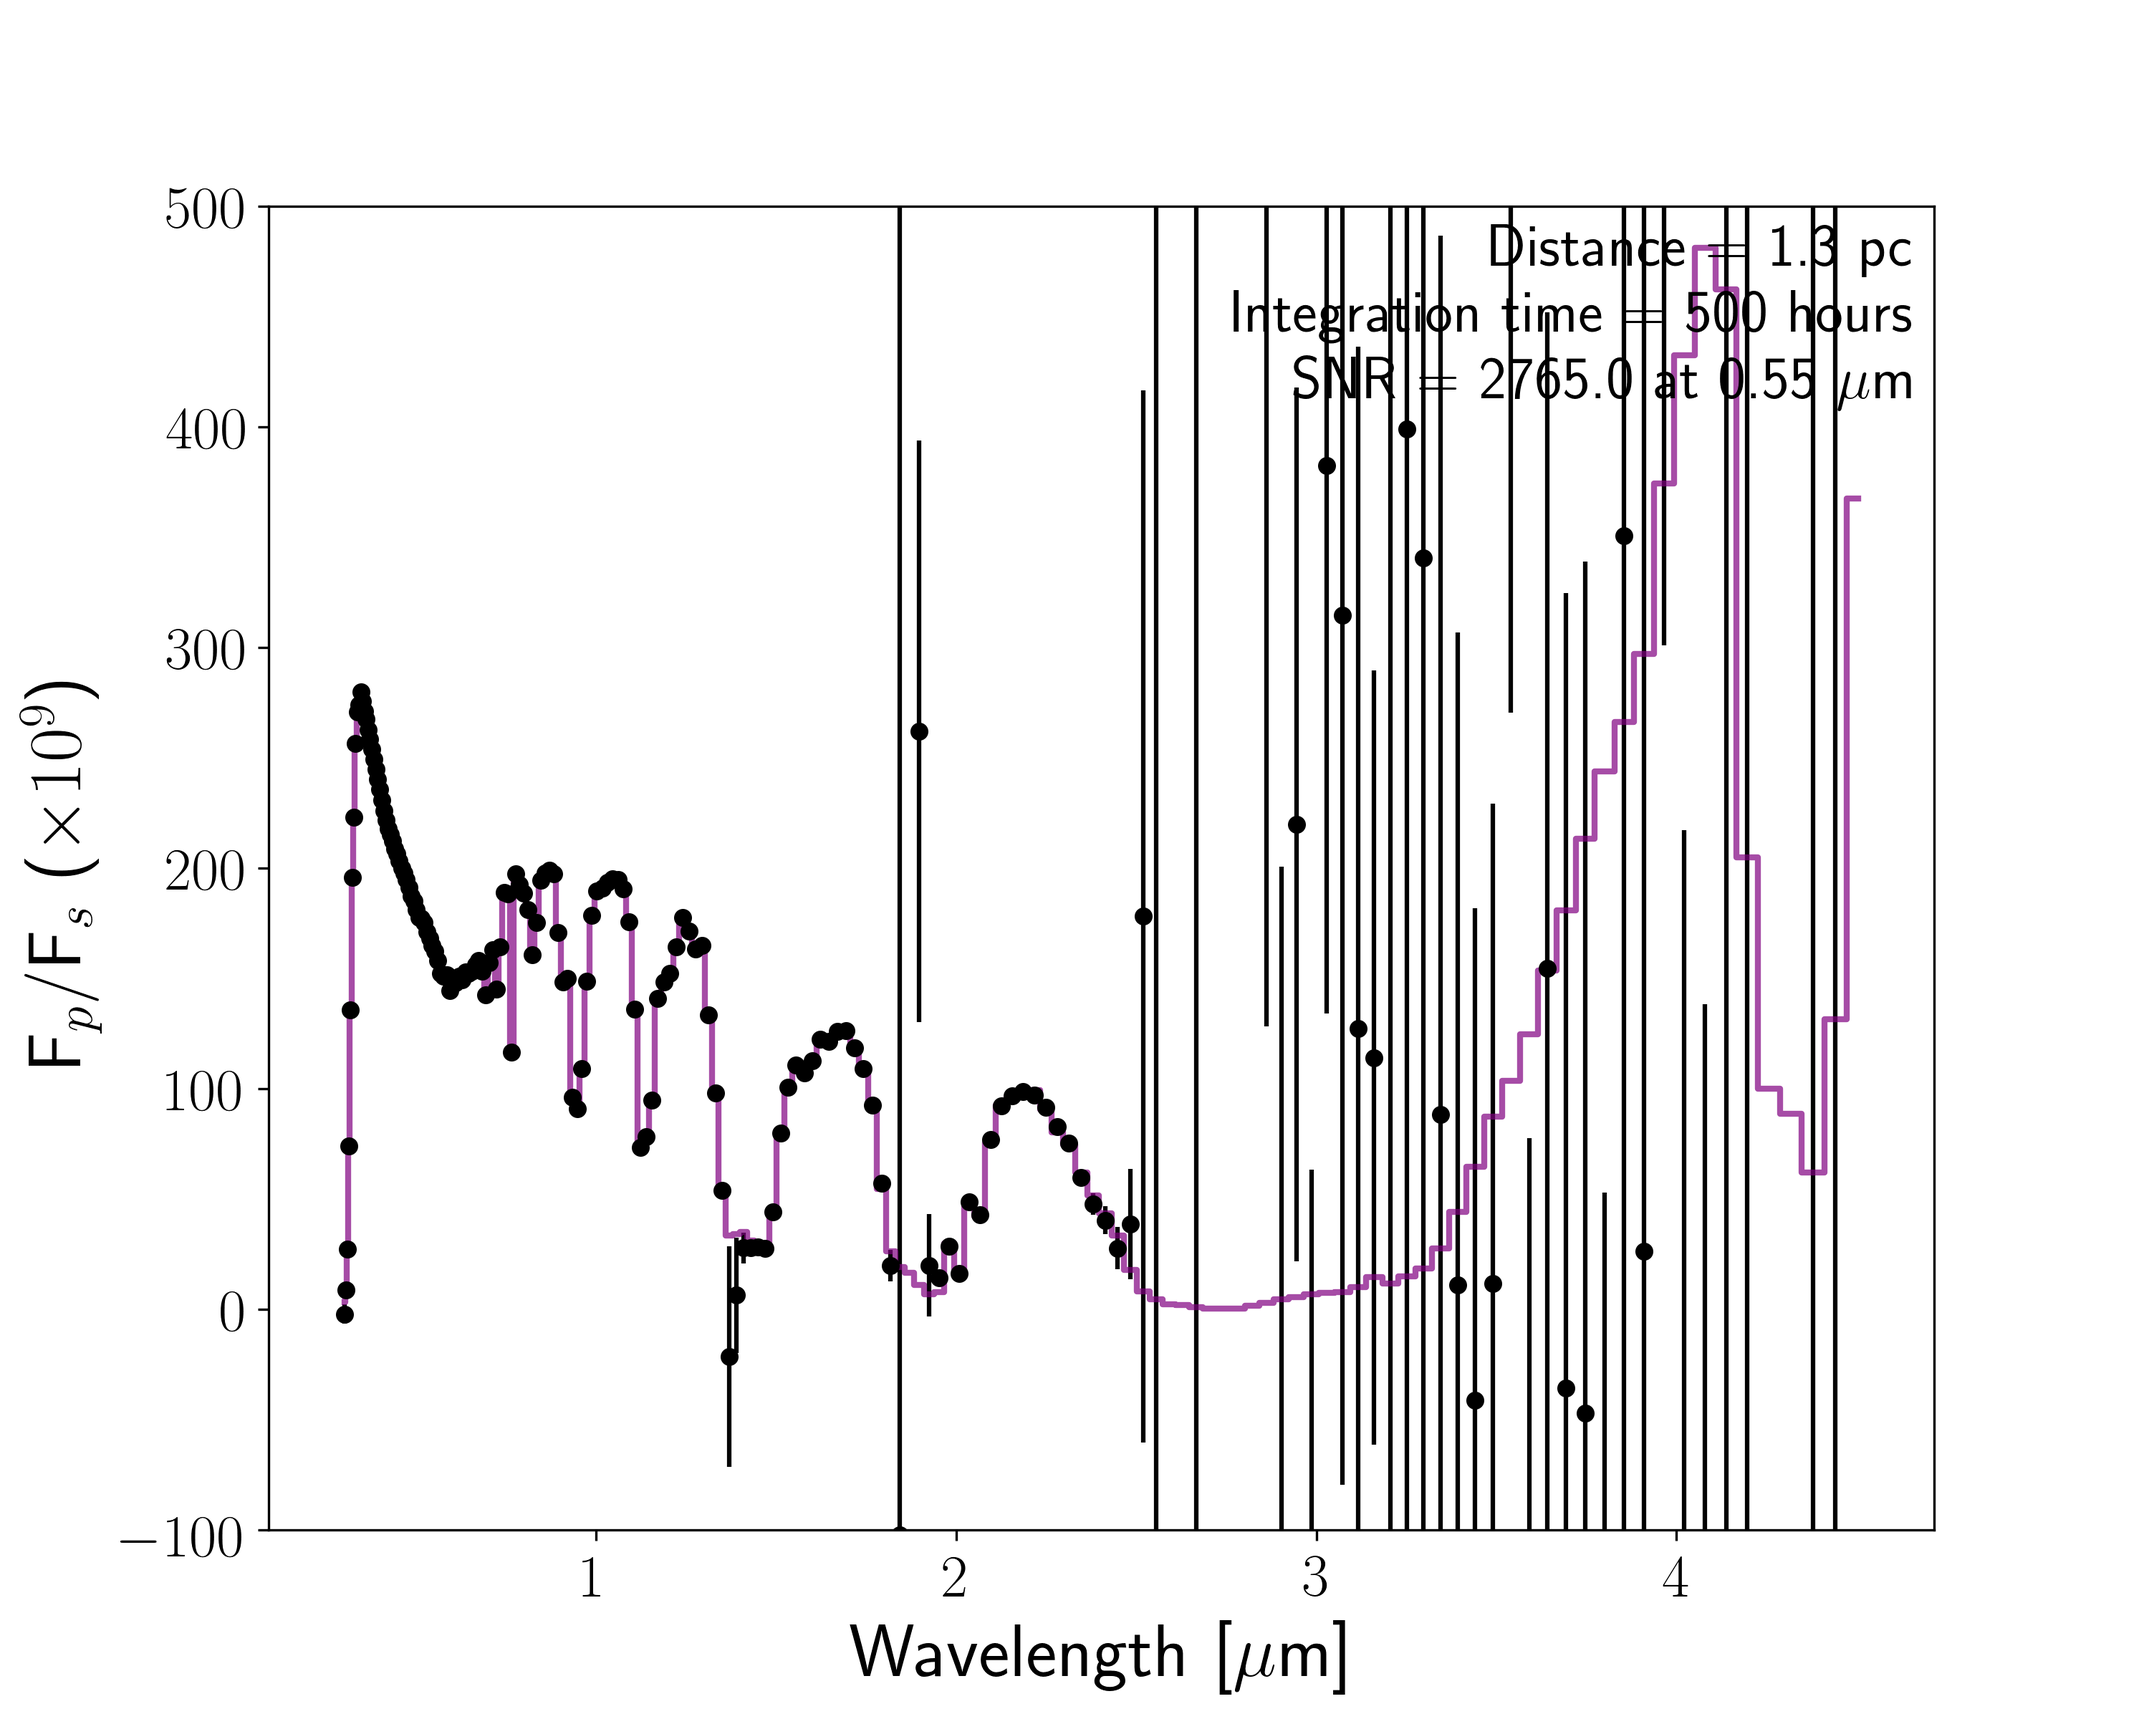
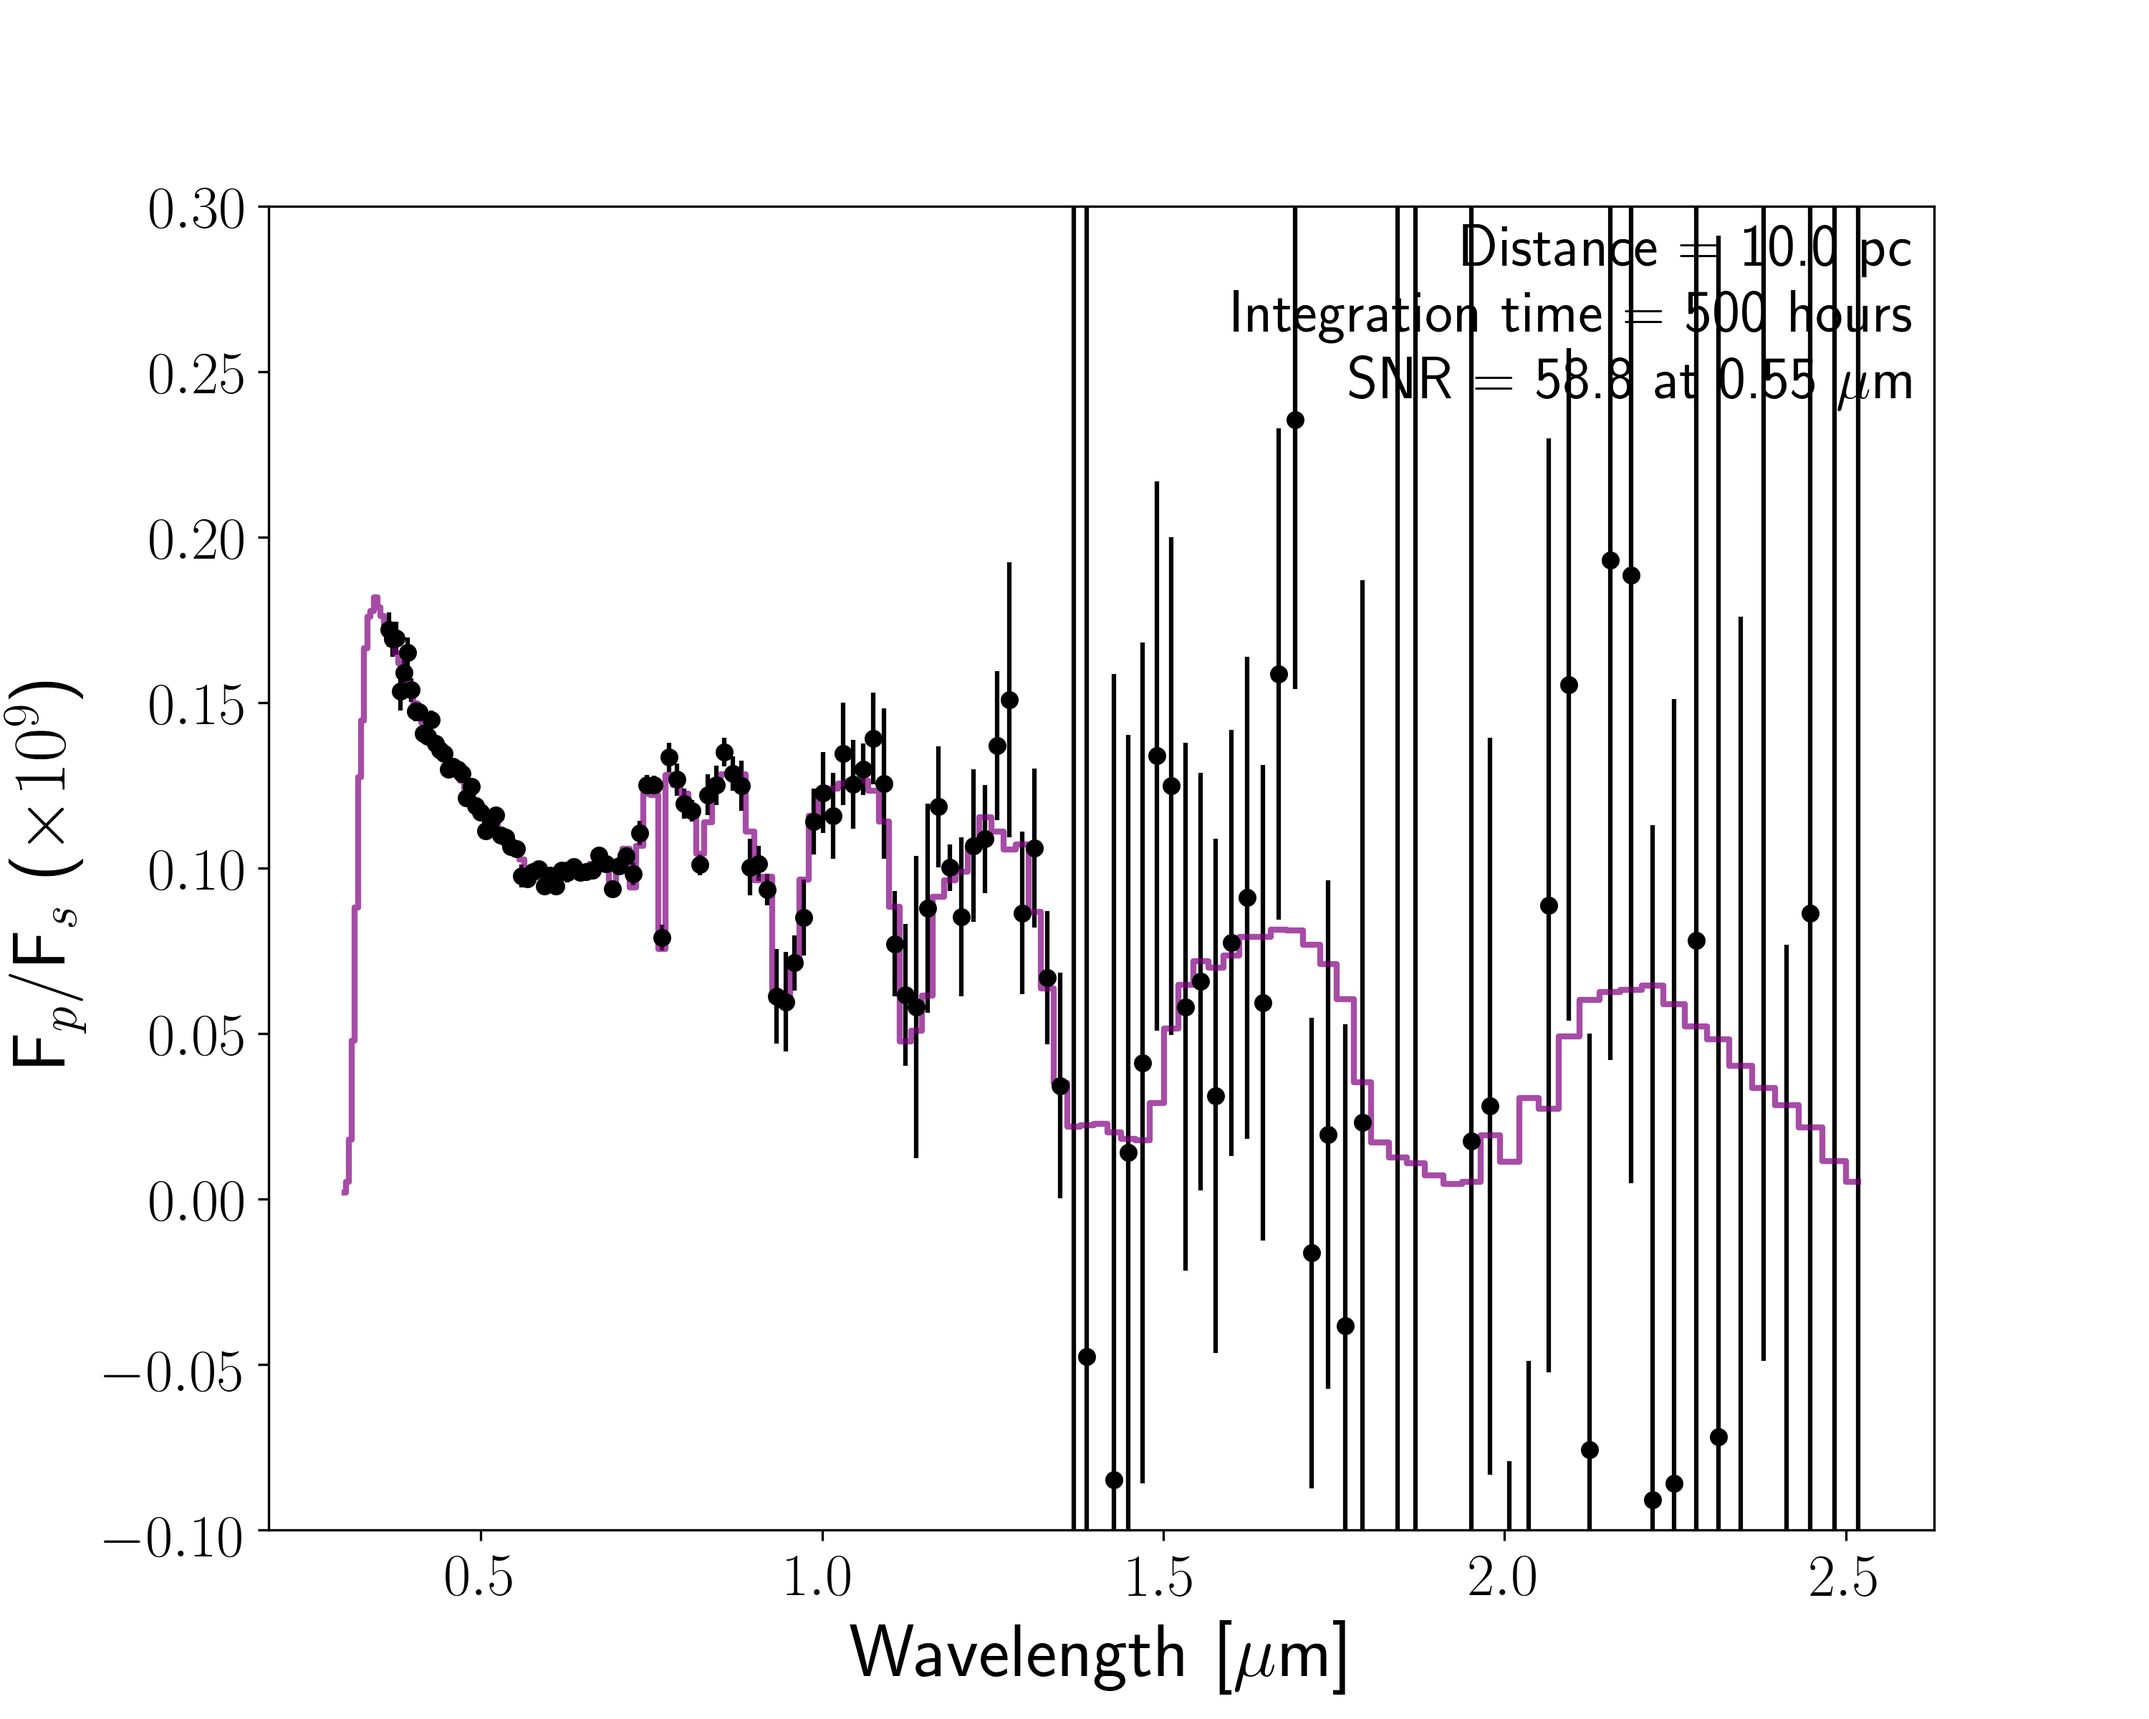
script update [ci skip]

diff --git a/scripts/ground_demo.py b/scripts/ground_demo.py
@@ -10,6 +10,8 @@ A demo simulation of Earth at 10 pc using a 30-m ground-based telescope setup.
     :align: center
 
     from scripts import ground_demo
+    from coronagraph import plot_setup
+    plot_setup.setup()
     ground_demo._test()
 
   .. role:: raw-html(raw)
@@ -36,6 +38,7 @@ RELPATH = os.path.dirname(__file__)
 # Import coronagraph model
 import coronagraph as cg
 from coronagraph import plot_setup
+plot_setup.setup()
 
 def _test():
     '''
@@ -58,20 +61,20 @@ def run():
     # Planet params
     alpha = 90.     # phase angle at quadrature
     Phi   = cg.teleplanstar.lambertPhaseFunction(alpha)      # phase function at quadrature (already included in SMART run)
-    Rp    = 1.074     # Earth radii
-    r     = 0.0485     # semi-major axis (AU)
+    Rp    = 1.0     # Earth radii
+    r     = 1.0     # semi-major axis (AU)
 
     # Stellar params
-    Teff  = 3040.   # Sun-like Teff (K)
+    Teff  = 5780   # Sun-like Teff (K)
     Rs    = 1.      # star radius in solar radii
 
     # Planetary system params
-    d    = 1.302     # distance to system (pc)
+    d    = 10.0     # distance to system (pc)
     Nez  = 1.      # number of exo-zodis
 
     # Telescope parameters
     lammin = 0.3
-    lammax = 4.5
+    lammax = 2.5
     Res    = 70.0
     diam   = 30.0
     Tput   = 0.05
@@ -95,7 +98,7 @@ def run():
     plot = True
     ref_lam = 0.55
     title = ""
-    ylim =  [-100, 500]
+    ylim = [-0.1, 0.3]
     xlim =  None
     tag = "GroundIR_500hr_new"
 
@@ -172,9 +175,7 @@ def run():
         plot_setup.setup()
 
         # Create figure
-        fig = plt.figure(figsize=(10,8))
-        gs = gridspec.GridSpec(1,1)
-        ax = plt.subplot(gs[0])
+        fig, ax = plt.subplots(figsize = (10,8))
 
         # Set string for plot text
         if Dt > 2.0:
@@ -200,10 +201,11 @@ def run():
         ax.set_ylabel(r"F$_p$/F$_s$ ($\times 10^9$)", fontsize = 25)
         ax.set_xlabel("Wavelength [$\mu$m]", fontsize = 25)
         ax.set_title(title)
-        ax.text(0.99, 0.99, plot_text,\
+        ax.text(0.98, 0.98, plot_text,\
              verticalalignment='top', horizontalalignment='right',\
              transform=ax.transAxes,\
-             color='black', fontsize=20)
+             color='black', fontsize=20,
+             bbox=dict(boxstyle="square", fc="w", ec="k", alpha=0.9), zorder=101)
 
         # Adjust x,y limits
         if ylim is not None: ax.set_ylim(ylim)

diff --git a/scripts/luvoir_demo.py b/scripts/luvoir_demo.py
@@ -10,6 +10,8 @@ A demo simulation of Earth at 10 pc using a LUVOIR-like telescope setup.
     :align: center
 
     from scripts import luvoir_demo
+    from coronagraph import plot_setup
+    plot_setup.setup()
     luvoir_demo._test()
 
   .. role:: raw-html(raw)
@@ -36,6 +38,7 @@ RELPATH = os.path.dirname(__file__)
 # Import coronagraph model
 import coronagraph as cg
 from coronagraph import plot_setup
+plot_setup.setup()
 
 def _test():
     '''
@@ -129,9 +132,7 @@ def run():
         plot_setup.setup()
 
         # Create figure
-        fig = plt.figure(figsize=(10,8))
-        gs = gridspec.GridSpec(1,1)
-        ax = plt.subplot(gs[0])
+        fig, ax = plt.subplots(figsize = (10,8))
 
         # Set string for plot text
         if Dt > 2.0:
@@ -157,10 +158,11 @@ def run():
         ax.set_ylabel(r"F$_p$/F$_s$ ($\times 10^9$)", fontsize = 25)
         ax.set_xlabel("Wavelength [$\mu$m]", fontsize = 25)
         ax.set_title(title)
-        ax.text(0.99, 0.99, plot_text,\
+        ax.text(0.98, 0.98, plot_text,\
              verticalalignment='top', horizontalalignment='right',\
              transform=ax.transAxes,\
-             color='black', fontsize=20)
+             color='black', fontsize=20,
+             bbox=dict(boxstyle="square", fc="w", ec="k", alpha=0.9), zorder=101)
 
         # Adjust x,y limits
         if ylim is not None: ax.set_ylim(ylim)
